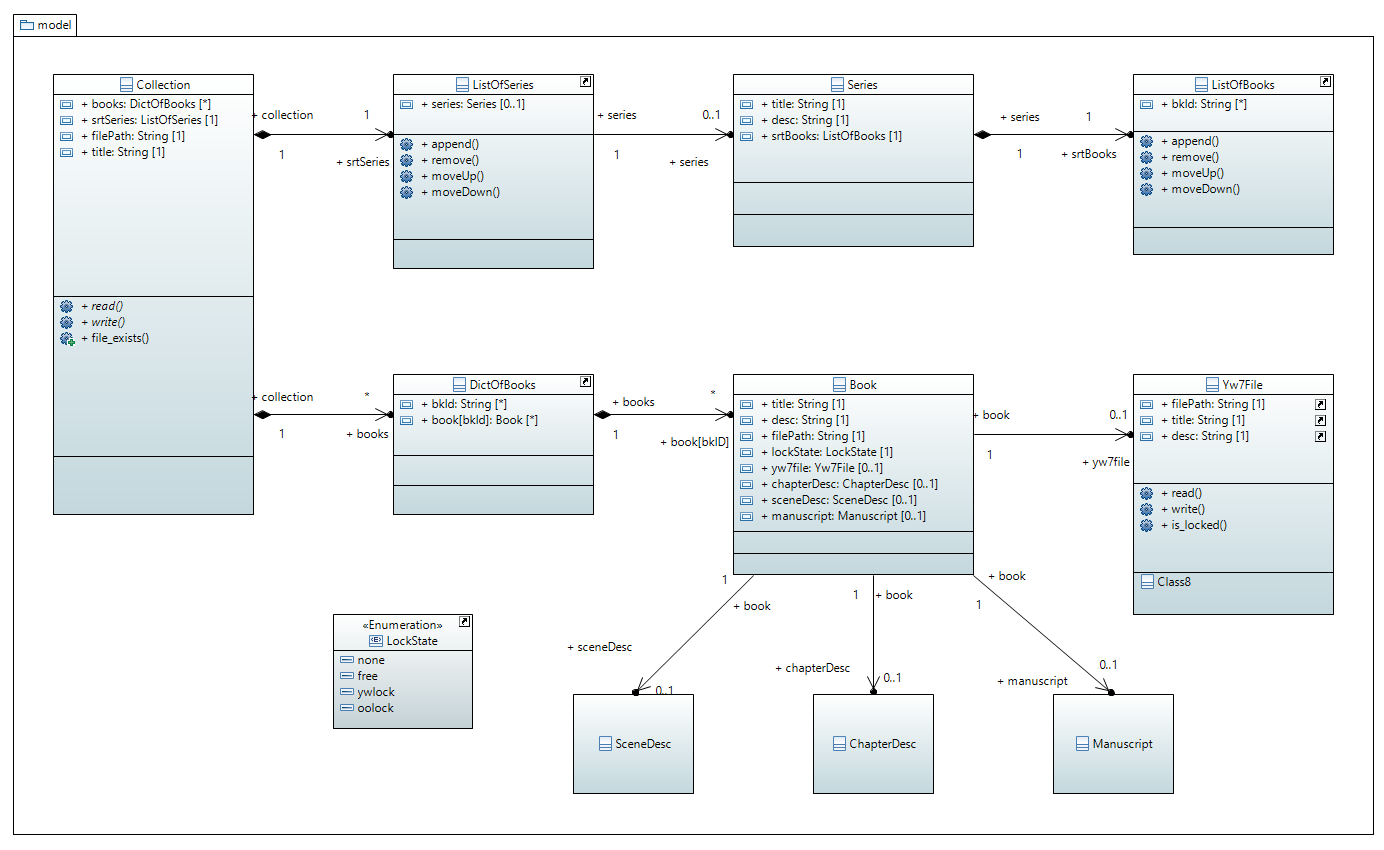
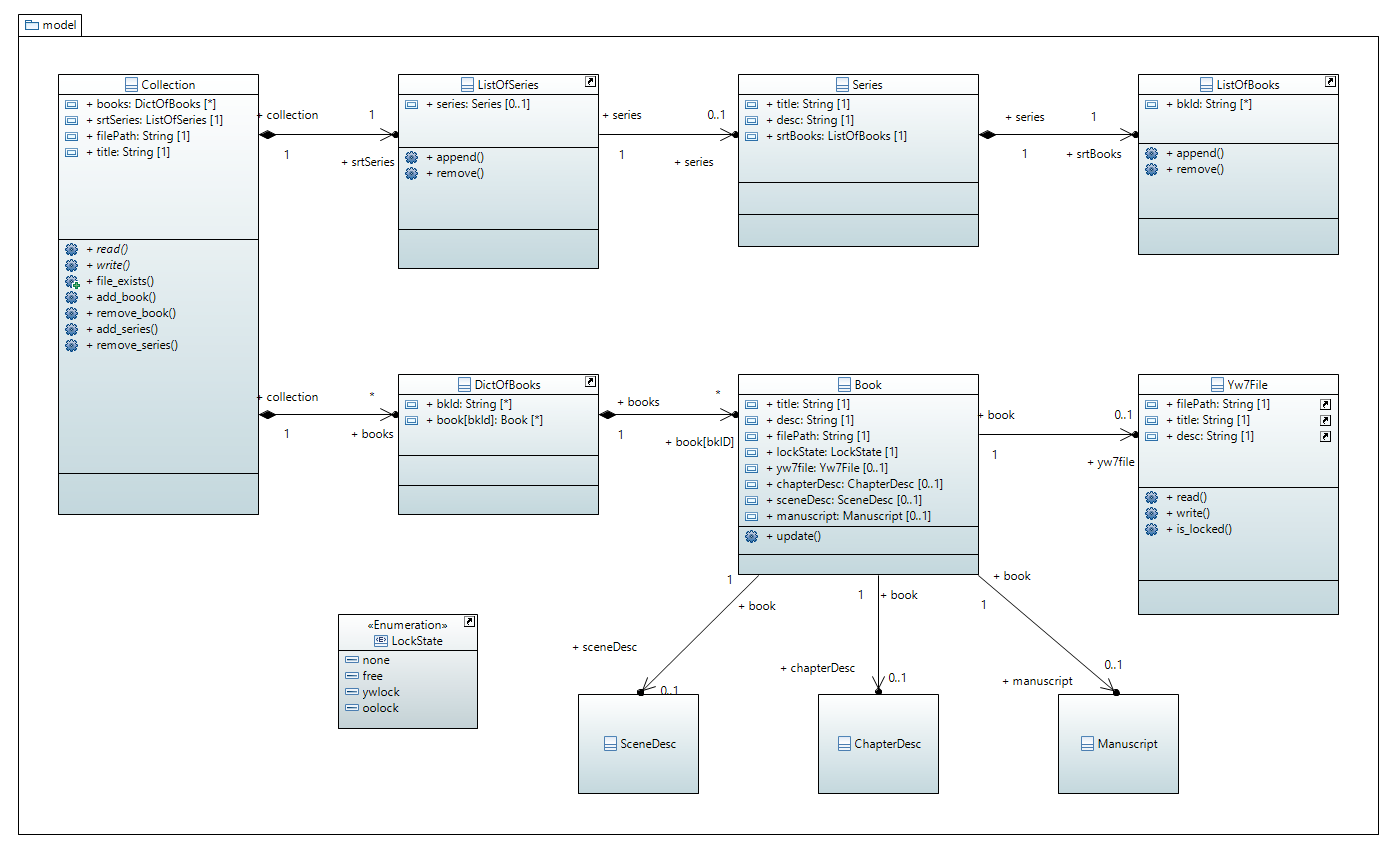
Update docstrings and UML model

diff --git a/src/pywriter/model/collection.py b/src/pywriter/model/collection.py
@@ -23,11 +23,11 @@ class Collection():
         the novel summary.
 
     books : dict
-        key = scene ID, value = Book object.
+        key = book ID, value = Book object.
         The order of the elements does not matter.
 
     srtSeries : list 
-        the collection's series IDs.
+        list of the collection's Series objects.
 
     # Properties
 
@@ -44,13 +44,34 @@ class Collection():
         Return a message beginning with SUCCESS or ERROR. 
 
     write : str
-        Open the pwc xml file located at filePath and replace a set 
-        of items by the novel attributes not being None.
+        Write the collection's attributes to a pwc xml file 
+        located at filePath. Overwrite existing file without
+        confirmation.
         Return a message beginning with SUCCESS or ERROR.
 
     file_exists() : bool
         True means: the file specified by filePath exists. 
+
+    add_book
+        Arguments
+        filePath : str
+            The book's location.
+        serTitle : str
+            The title of the series the book is assigned. 
+            Default is 'Not in a series'.
+        Add an existing yWriter 7 project file as book to the 
+        collection and to a series. Determine a book ID, 
+        read the novel's title and description, and compute
+        word count and letter count.
+
+    remove_book
+        Arguments
+        bkId : str
+            The book ID.
+        Remove a book from the collection and from the series.
     """
+
+    DEFAULT_SERIES = 'Not in a series'
 
     _fileExtension = 'pwc'
 
@@ -220,7 +241,7 @@ class Collection():
         else:
             return(False)
 
-    def add_book(self, filePath, serTitle='Not in a series'):
+    def add_book(self, filePath, serTitle=DEFAULT_SERIES):
         """Add an existing book to the collection."""
 
         i = 1

diff --git a/src/pywriter/model/book.py b/src/pywriter/model/book.py
@@ -15,20 +15,25 @@ class Book():
     # Attributes
 
     title : str
-        the scene title.
+        the book title.
 
     desc : str
-        scene summary.
+        the book summary.
 
     filePath : str
-        Location of the book project folder.
+        location of the book project folder.
 
     wordCount : int 
-        (to be updated by the sceneContent setter).
+        the book's scenes total word count.
 
     letterCount : int 
-        (to be updated by the sceneContent setter).
+        the book's scenes total letter count.
 
+    # Methods
+
+    update
+        Open the yw7 file, read title and description, 
+        and compute word count and letter count. 
     """
 
     def __init__(self, filePath):
